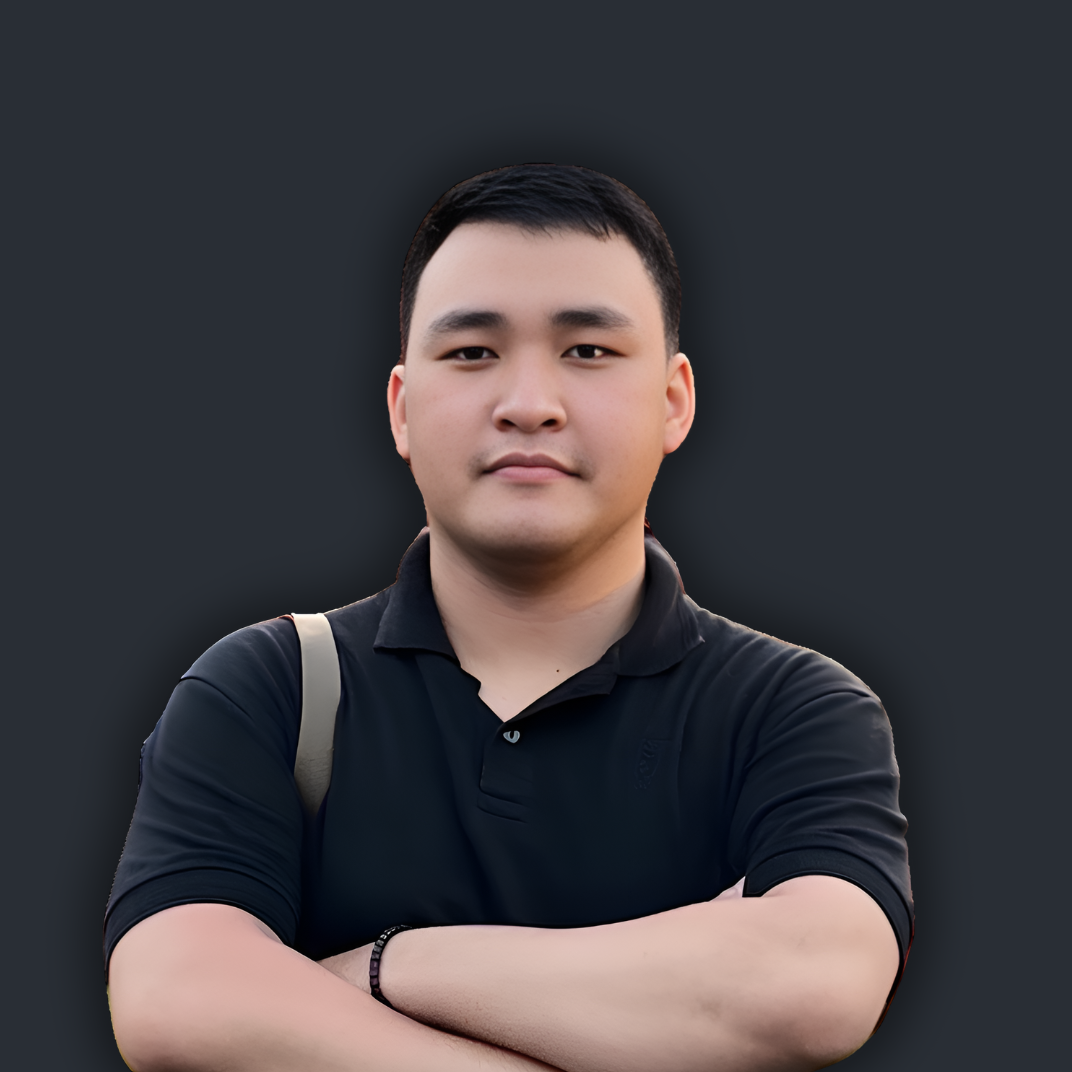
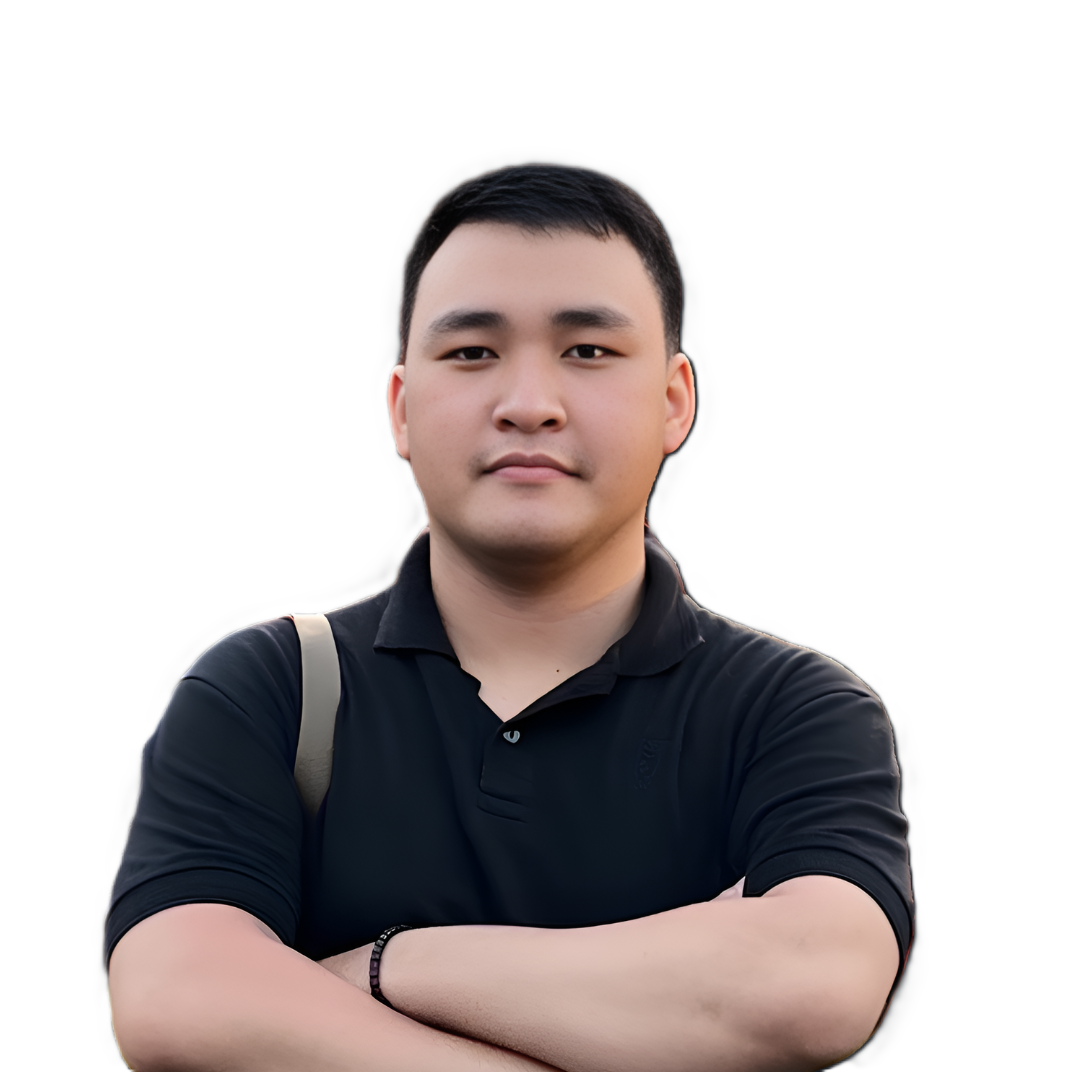
update image about me

diff --git a/index.html b/index.html
@@ -366,107 +366,8 @@
     </div>
     <!--Java Script Link-->
     <script src="https://unpkg.com/aos@next/dist/aos.js"></script>
-    <script>
-      AOS.init({
-        offset: 300,
-        duration: 1400,
-      });
-      const header = document.querySelector("header");
 
-      window.addEventListener("scroll", function () {
-        header.classList.toggle("sticky", window.scrollY > 120);
-      });
-
-      let menu = document.querySelector("#menu-icon");
-      let navlist = document.querySelector(".nav-list");
-
-      menu.onclick = () => {
-        menu.classList.toggle("bx-x");
-        navlist.classList.toggle("active");
-      };
-
-      window.onscroll = () => {
-        menu.classList.remove("bx-x");
-        navlist.classList.remove("active");
-      };
-
-      function MessageToWhatsapp() {
-        const urlToWhatsapp = `https://wa.me/+6285775242278?text=Halo nama saya, ${name.value}, email saya ${email.value}, ${pesan.value}`;
-
-        window.open(urlToWhatsapp, "_blank");
-      }
-
-      // The text content for each line
-      const text1 = "Hi, There!";
-      const text2Part1 = "I'm "; // Before the span
-      const text2Part2 = "Barito Surya Ramadhani"; // Inside the span
-      const text3 = "Informatics Engineering Student at Mercu Buana University";
-
-      // Get the HTML elements
-      const line1 = document.getElementById("line1");
-      const line2 = document.getElementById("line2");
-      const line3 = document.getElementById("line3");
-
-      // Function to type text character by character
-      function typeText(element, text, delay = 100, callback = null) {
-        let i = 0;
-        function typing() {
-          if (i < text.length) {
-            element.innerHTML += text.charAt(i);
-            i++;
-            setTimeout(typing, delay);
-          } else if (callback) {
-            callback(); // Call the next function if it exists
-          }
-        }
-        typing();
-      }
-
-      // Start typing the text
-      typeText(line1, text1, 100, () => {
-        typeText(line2, text2Part1, 100, () => {
-          // Create the span element and add it to the line2
-          const span = document.createElement("span");
-          line2.appendChild(span);
-          typeText(span, text2Part2, 100, () => {
-            typeText(line3, text3, 50);
-          });
-        });
-      });
-
-      const toggleButton = document.getElementById("toggle-dark-mode");
-      const currentTheme = localStorage.getItem("theme");
-
-      // Set theme saat page pertama kali dimuat berdasarkan localStorage
-      if (currentTheme) {
-        document.documentElement.className = currentTheme;
-
-        if (currentTheme === "light-mode") {
-          toggleButton.querySelector(".ri-sun-fill").classList.add("active");
-          toggleButton
-            .querySelector(".ri-moon-fill")
-            .classList.remove("active");
-        } else {
-          toggleButton.querySelector(".ri-moon-fill").classList.add("active");
-          toggleButton.querySelector(".ri-sun-fill").classList.remove("active");
-        }
-      }
-
-      // Event listener untuk toggle antara light mode dan dark mode
-      toggleButton.addEventListener("click", function () {
-        if (document.documentElement.classList.contains("dark-mode")) {
-          document.documentElement.className = "light-mode";
-          localStorage.setItem("theme", "light-mode");
-          this.querySelector(".ri-sun-fill").classList.add("active");
-          this.querySelector(".ri-moon-fill").classList.remove("active");
-        } else {
-          document.documentElement.className = "dark-mode";
-          localStorage.setItem("theme", "dark-mode");
-          this.querySelector(".ri-moon-fill").classList.add("active");
-          this.querySelector(".ri-sun-fill").classList.remove("active");
-        }
-      });
-    </script>
+    <script src="/assets/script.js"></script>
     <!-- Include the library. -->
     <script src="https://unpkg.com/github-calendar/dist/github-calendar.min.js"></script>
     <script>

diff --git a/dist/index.html b/dist/index.html
@@ -365,101 +365,7 @@
     </div>
     <!--Java Script Link-->
     <script src="https://unpkg.com/aos@next/dist/aos.js"></script>
-    <script>
-      AOS.init({
-        offset: 300,
-        duration: 1400,
-      });
-      const header = document.querySelector("header");
-
-      window.addEventListener("scroll", function () {
-        header.classList.toggle("sticky", window.scrollY > 120);
-      });
-
-      let menu = document.querySelector("#menu-icon");
-      let navlist = document.querySelector(".nav-list");
-
-      menu.onclick = () => {
-        menu.classList.toggle("bx-x");
-        navlist.classList.toggle("active");
-      };
-
-      window.onscroll = () => {
-        menu.classList.remove("bx-x");
-        navlist.classList.remove("active");
-      };
-
-      function MessageToWhatsapp() {
-        const urlToWhatsapp = `https://wa.me/+6285775242278?text=Halo nama saya, ${name.value}, email saya ${email.value}, ${pesan.value}`;
-
-        window.open(urlToWhatsapp, "_blank");
-      }
-
-      // The text content for each line
-      const text1 = "Hi, There!";
-      const text2Part1 = "I'm "; // Before the span
-      const text2Part2 = "Barito Surya Ramadhani"; // Inside the span
-      const text3 = "Informatics Engineering Student at Mercu Buana University";
-
-      // Get the HTML elements
-      const line1 = document.getElementById("line1");
-      const line2 = document.getElementById("line2");
-      const line3 = document.getElementById("line3");
-
-      // Function to type text character by character
-      function typeText(element, text, delay = 100, callback = null) {
-        let i = 0;
-        function typing() {
-          if (i < text.length) {
-            element.innerHTML += text.charAt(i);
-            i++;
-            setTimeout(typing, delay);
-          } else if (callback) {
-            callback(); // Call the next function if it exists
-          }
-        }
-        typing();
-      }
-
-      // Start typing the text
-      typeText(line1, text1, 100, () => {
-        typeText(line2, text2Part1, 100, () => {
-          // Create the span element and add it to the line2
-          const span = document.createElement("span");
-          line2.appendChild(span);
-          typeText(span, text2Part2, 100, () => {
-            typeText(line3, text3, 50);
-          });
-        });
-      });
-
-      const toggleButton = document.getElementById("toggle-dark-mode");
-      const currentTheme = localStorage.getItem("theme");
-
-      if (currentTheme) {
-        document.documentElement.className = currentTheme;
-
-        if (currentTheme === "light-mode") {
-          toggleButton.querySelector(".ri-sun-fill").classList.add("active");
-        } else {
-          toggleButton.querySelector(".ri-moon-fill").classList.add("active");
-        }
-      }
-
-      toggleButton.addEventListener("click", function () {
-        if (document.documentElement.classList.contains("dark-mode")) {
-          document.documentElement.className = "light-mode";
-          localStorage.setItem("theme", "light-mode");
-          this.querySelector(".ri-sun-fill").classList.add("active");
-          this.querySelector(".ri-moon-fill").classList.remove("active");
-        } else {
-          document.documentElement.className = "dark-mode";
-          localStorage.setItem("theme", "dark-mode");
-          this.querySelector(".ri-moon-fill").classList.add("active");
-          this.querySelector(".ri-sun-fill").classList.remove("active");
-        }
-      });
-    </script>
+    <script src="/assets/script.js"></script>
     <!-- Include the library. -->
     <script src="https://unpkg.com/github-calendar/dist/github-calendar.min.js"></script>
     <script>

diff --git a/assets/script.js b/assets/script.js
@@ -1,0 +1,93 @@
+AOS.init({
+    offset: 300,
+    duration: 1400,
+  });
+  const header = document.querySelector("header");
+
+  window.addEventListener("scroll", function () {
+    header.classList.toggle("sticky", window.scrollY > 120);
+  });
+
+  let menu = document.querySelector("#menu-icon");
+  let navlist = document.querySelector(".nav-list");
+
+  menu.onclick = () => {
+    menu.classList.toggle("bx-x");
+    navlist.classList.toggle("active");
+  };
+
+  window.onscroll = () => {
+    menu.classList.remove("bx-x");
+    navlist.classList.remove("active");
+  };
+
+  function MessageToWhatsapp() {
+    const urlToWhatsapp = `https://wa.me/+6285775242278?text=Halo nama saya, ${name.value}, email saya ${email.value}, ${pesan.value}`;
+
+    window.open(urlToWhatsapp, "_blank");
+  }
+
+  // The text content for each line
+  const text1 = "Hi, There!";
+  const text2Part1 = "I'm "; // Before the span
+  const text2Part2 = "Barito Surya Ramadhani"; // Inside the span
+  const text3 = "Informatics Engineering Student at Mercu Buana University";
+
+  // Get the HTML elements
+  const line1 = document.getElementById("line1");
+  const line2 = document.getElementById("line2");
+  const line3 = document.getElementById("line3");
+
+  // Function to type text character by character
+  function typeText(element, text, delay = 100, callback = null) {
+    let i = 0;
+    function typing() {
+      if (i < text.length) {
+        element.innerHTML += text.charAt(i);
+        i++;
+        setTimeout(typing, delay);
+      } else if (callback) {
+        callback(); // Call the next function if it exists
+      }
+    }
+    typing();
+  }
+
+  // Start typing the text
+  typeText(line1, text1, 100, () => {
+    typeText(line2, text2Part1, 100, () => {
+      // Create the span element and add it to the line2
+      const span = document.createElement("span");
+      line2.appendChild(span);
+      typeText(span, text2Part2, 100, () => {
+        typeText(line3, text3, 50);
+      });
+    });
+  });
+
+  const toggleButton = document.getElementById("toggle-dark-mode");
+  const currentTheme = localStorage.getItem("theme");
+
+  if (currentTheme) {
+    document.documentElement.className = currentTheme;
+
+    if (currentTheme === "light-mode") {
+      toggleButton.querySelector(".ri-sun-fill").classList.add("active");
+    } else {
+      toggleButton.querySelector(".ri-moon-fill").classList.add("active");
+    }
+  }
+
+  toggleButton.addEventListener("click", function () {
+    if (document.documentElement.classList.contains("dark-mode")) {
+      document.documentElement.className = "light-mode";
+      localStorage.setItem("theme", "light-mode");
+      this.querySelector(".ri-sun-fill").classList.add("active");
+      this.querySelector(".ri-moon-fill").classList.remove("active");
+    } else {
+      document.documentElement.className = "dark-mode";
+      localStorage.setItem("theme", "dark-mode");
+      this.querySelector(".ri-moon-fill").classList.add("active");
+      this.querySelector(".ri-sun-fill").classList.remove("active");
+    }
+  });

diff --git a/assets/style.css b/assets/style.css
@@ -24,7 +24,7 @@
   --text-color: #000;
   --bg-color: #f5f5f5;
   --second-bg-color: #ffffff;
-  --main-color: #007bff;
+  --main-color: #1362ff;
   --other-color: #555555;
   --row-color: #ebebeb;
 }
@@ -250,11 +250,11 @@ section {
   width: 100%;
   height: 530px;
   max-width: 530px;
-  border-radius: 50%;
+  border-radius: 40%;
   object-fit: cover;
-  border: 7px solid var(--main-color);
-  box-shadow: 0 0 20px var(--main-color);
-  /* filter: drop-shadow(2px 2px 20px var(--main-color)); */
+  /* border: 7px solid var(--main-color); */
+  // box-shadow: 0 0 20px var(--main-color);
+  filter: drop-shadow(2px 2px 20px var(--main-color));
 }
 
 .about-text h2 {
@@ -515,7 +515,7 @@ form .send-btn:hover {
   display: inline-flex;
   align-items: center;
   justify-content: center;
-  background: #075fe4;
+  background: var(--main-color);
   width: 45px;
   height: 45px;
   border-radius: 50%;
